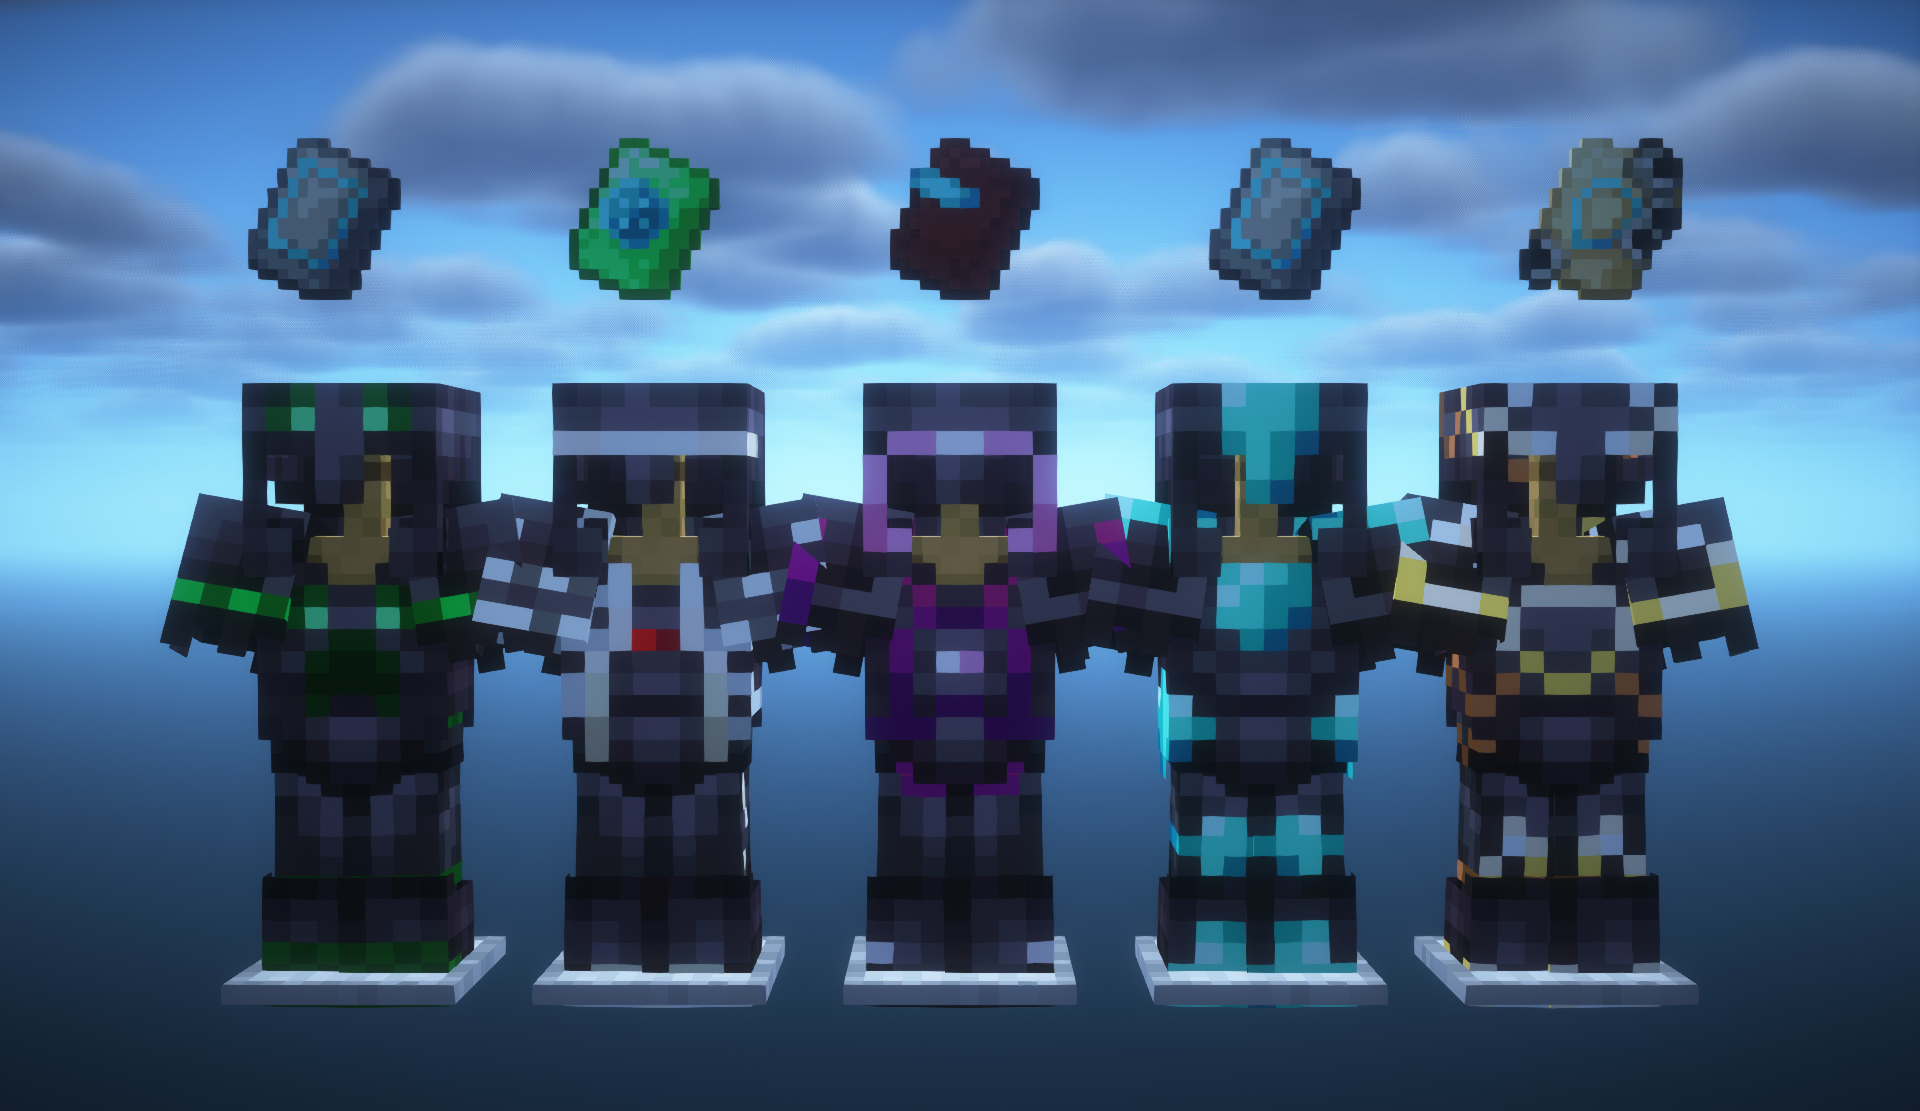
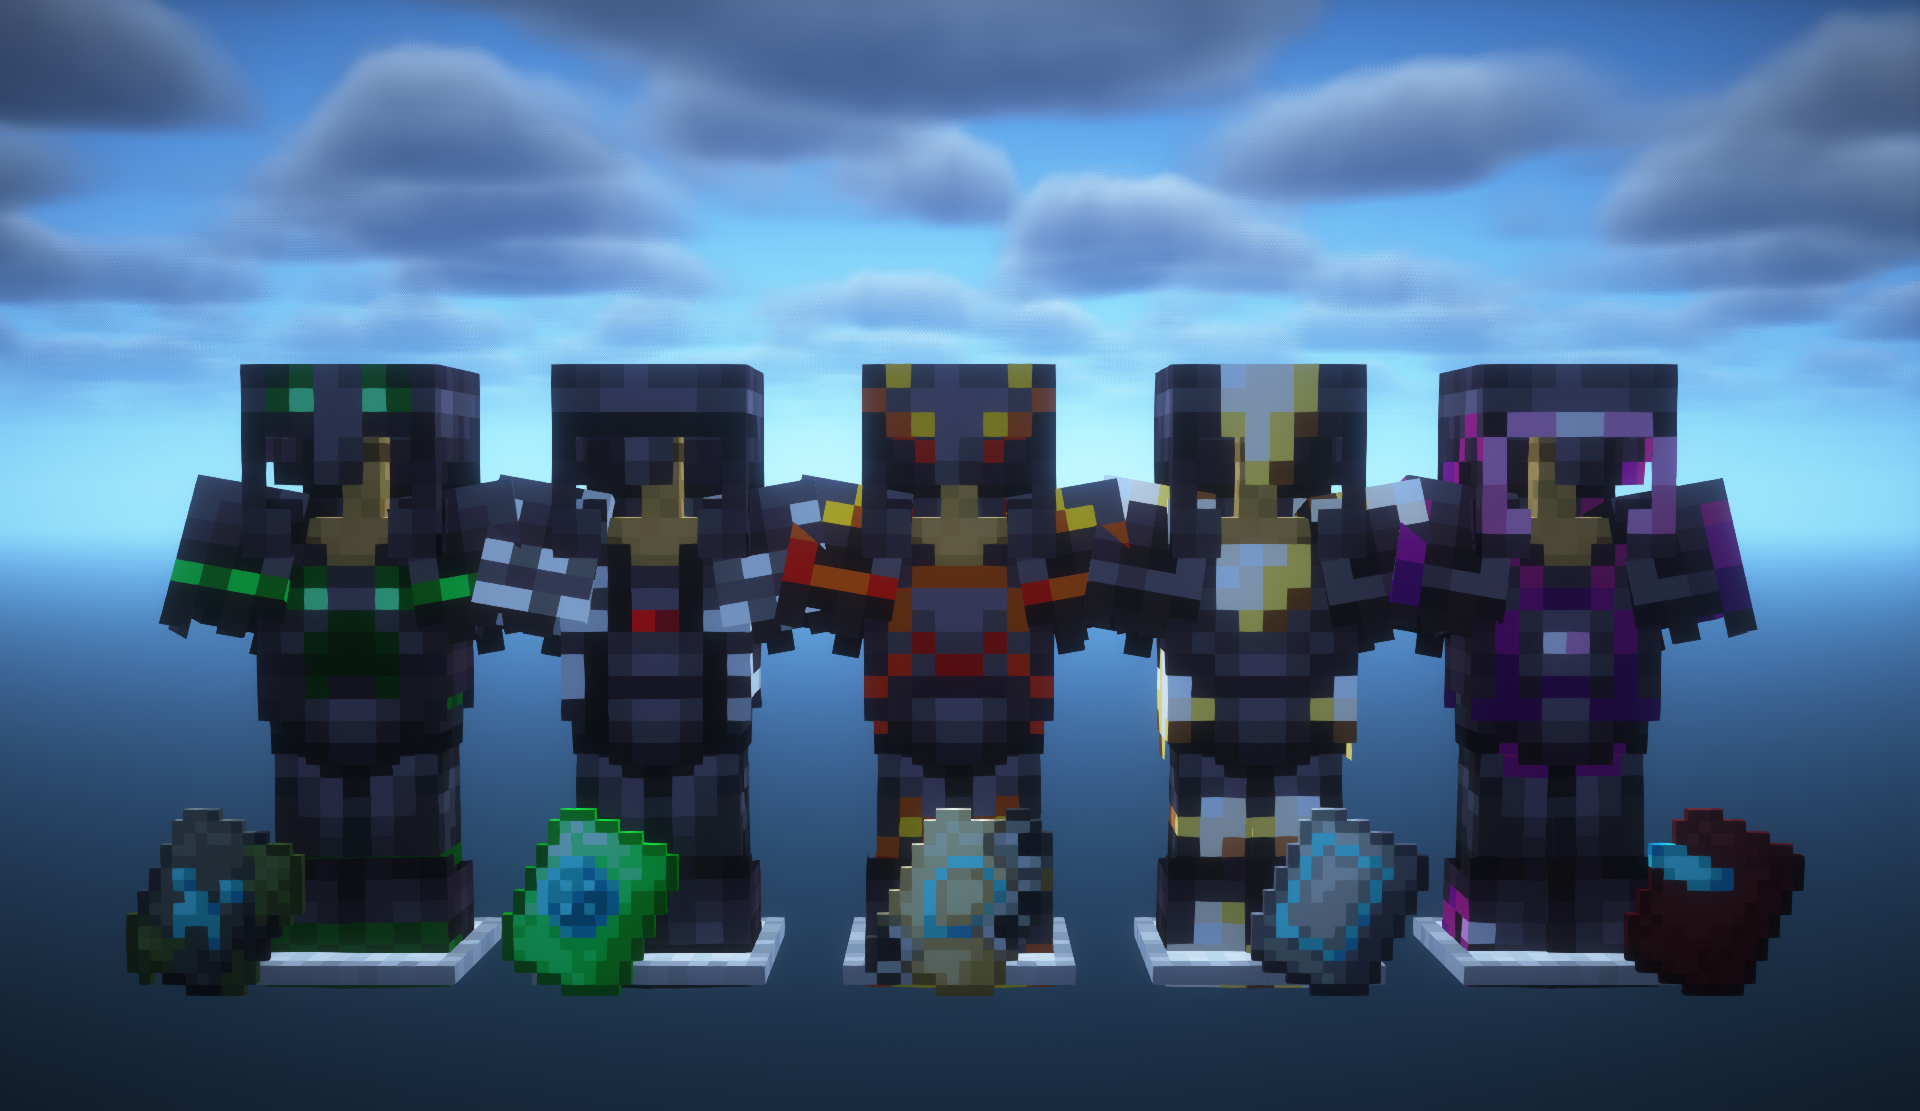
wip: Trims

diff --git a/docs/guidelines/mechanics/trim_expanded.md b/docs/guidelines/mechanics/trim_expanded.md
@@ -5,13 +5,13 @@ description: Новые шаблоны для брони и увелечение
 ---
 
 import { ImageZoom } from "@site/src/components/ImageZoomComponent"
-import { Item } from "@site/src/components/PhotoNamePlayer"
+import { Item, Block } from "@site/src/components/PhotoNamePlayer"
 
 # Новые шаблоны
 
 <ImageZoom
-  src="/img/mechanics/trim-expanded/trim-expanded-banner.webp"
-  alt="Trim expanded баннер"
+  src="/img/mechanics/trim-expanded/more-trims-banner.png"
+  alt="Больше шаблонов баннер"
 />
 
 > НОВИЧКИ УМИРАЮТ НА СПАВНЕ, А ТЫ ДЕЛАЕШЬ ТРЕТИЙ КОМПЛЕКТ БРОНИ С ОТДЕЛКАМИ
@@ -21,10 +21,10 @@ import { Item } from "@site/src/components/PhotoNamePlayer"
 **Trims Expanded** - датапак, который добавляет новые цвета и шаблоны для брони, чтобы вы подчеркнули своё Я  
 **Tool Trims** - датапак позволяющий Вам наносить новый шаблон на инструменты и увеличить их ценность  
 
-## Шаблоны для брони
+## Нанесение шаблона и новые краски{#trim-and-new-colors}
 
-Помимо новых шаблонов на сервере доступны новые цвета для отделки
-
+Нанесение шаблона на броню и инструменты происходит в <Block.sm item="smithing_table" name="столе кузнеца"/>
+Помимо новых шаблонов на сервере доступны новые цвета для отделки, которые размещаются также, как и ванильные краски в столе кузница.
 
 <table>
   <tbody>
@@ -51,45 +51,123 @@ import { Item } from "@site/src/components/PhotoNamePlayer"
   </tbody>
 </table>
 
+## Шаблоны для брони
+
+<ImageZoom
+  src="/img/mechanics/trim-expanded/trim-expanded-preview.png"
+  alt="Trim expanded предпросмотр новых шаблонов для брони"
+/>
 
 ### Danger {#danger-trim}
 
 <ImageZoom
-  src="/img/mechanics/trim-expanded/danger_armor_trim_smithing_template_craft.png"
-  alt="Рецепт создание шаблона Danger"
+  src="/img/mechanics/trim-expanded/danger-trim-preview.png"
+  alt="danger trim предпросмотр"
 />
 
-### Drip {#drip-trim}
+#### Где найти {#danger-trim-location}
+
+<Item.sm item="danger_armor_trim_smithing_template" name="шаблон Danger"/> можно найти в ещё непрогруженных сокровищницах.
+
+#### Рецепт создания {#danger-trim-craft}
 
 
 
 ### Shell {#shell-trim}
 
+<ImageZoom
+  src="/img/mechanics/trim-expanded/shell-trim-preview.png"
+  alt="shell trim предпросмотр"
+/>
+
+#### Где найти {#shell-trim-location}
+
+<Item.sm item="shell_armor_trim_smithing_template" name="шаблон Shell"/> выпадает с карты зарытых сокровищ
+
+#### Рецепт создания {#shell-trim-craft}
+
 
 
 ### Plated {#plated-trim}
+
+<ImageZoom
+  src="/img/mechanics/trim-expanded/plated-trim-preview.png"
+  alt="plated trim предпросмотр"
+/>
+
+#### Где найти {#plated-trim-location}
+
+<Item.sm item="plated_armor_trim_smithing_template" name="шаблон Plated"/> можно найти в ещё непрогруженных кузницах деревней.
+
+#### Рецепт создания {#plated-trim-craft}
 
 
 
 ### Suspicious {#suspicious-trim}
 
+<ImageZoom
+  src="/img/mechanics/trim-expanded/suspicious-trim-preview.png"
+  alt="suspicious trim предпросмотр"
+/>
+
+#### Где найти {#suspicious-trim-location}
+
+<Item.sm item="suspicious_armor_trim_smithing_template" name="шаблон Suspicious"/> нельзя найти естественным способом.
+
+#### Рецепт создания {#suspicious-trim-craft}
+
+
+
+### Drip {#drip-trim}
+
+<ImageZoom
+  src="/img/mechanics/trim-expanded/drip-trim-preview.png"
+  alt="drip trim предпросмотр"
+/>
+
+
+#### Где найти {#drip-trim-location}
+
+<Item.sm item="drip_armor_trim_smithing_template" name="шаблон Drip"/> нельзя найти естественным способом.
+
+#### Рецепт создания {#drip-trim-craft}
 
 
 ## Шаблоны для инструментов
 
-
+<ImageZoom
+  src="/img/mechanics/trim-expanded/tool-trims-preview.png"
+  alt="tools trim предпросмотр новых шаблонов для инструментов"
+/>
 
 ### Linear {#linear-trim}
 
+#### Где найти {#linear-trim-location}
 
+<Item.sm item="linear_tool_trim_smithing_template" name="шаблон Linear"/> можно найти в ещё непрогруженных руинах троп.
+
+#### Рецепт создания {#linear-trim-craft}
 
 ### Tracks {#tracks-trim}
 
+#### Где найти {#track-trim-location}
 
+<Item.sm item="tracks_tool_trim_smithing_template" name="шаблон Track"/> можно найти в ещё непрогруженных аванпостах разбойников.
+
+#### Рецепт создания {#drip-trim-craft}
 
 ### Charge {#charge-trim}
 
+#### Где найти {#drip-trim-location}
 
+<Item.sm item="charge_tool_trim_smithing_template" name="шаблон Сharge"/> можно найти в ещё непрогруженных древних городах.
+
+#### Рецепт создания {#drip-trim-craft}
 
 ### Frost {#frost-trim}
 
+#### Где найти {#frost-trim-location}
+
+<Item.sm item="frost_tool_trim_smithing_template" name="шаблон Frost"/> можно найти в ещё непрогруженных иглу
+
+#### Рецепт создания {#drip-trim-craft}
